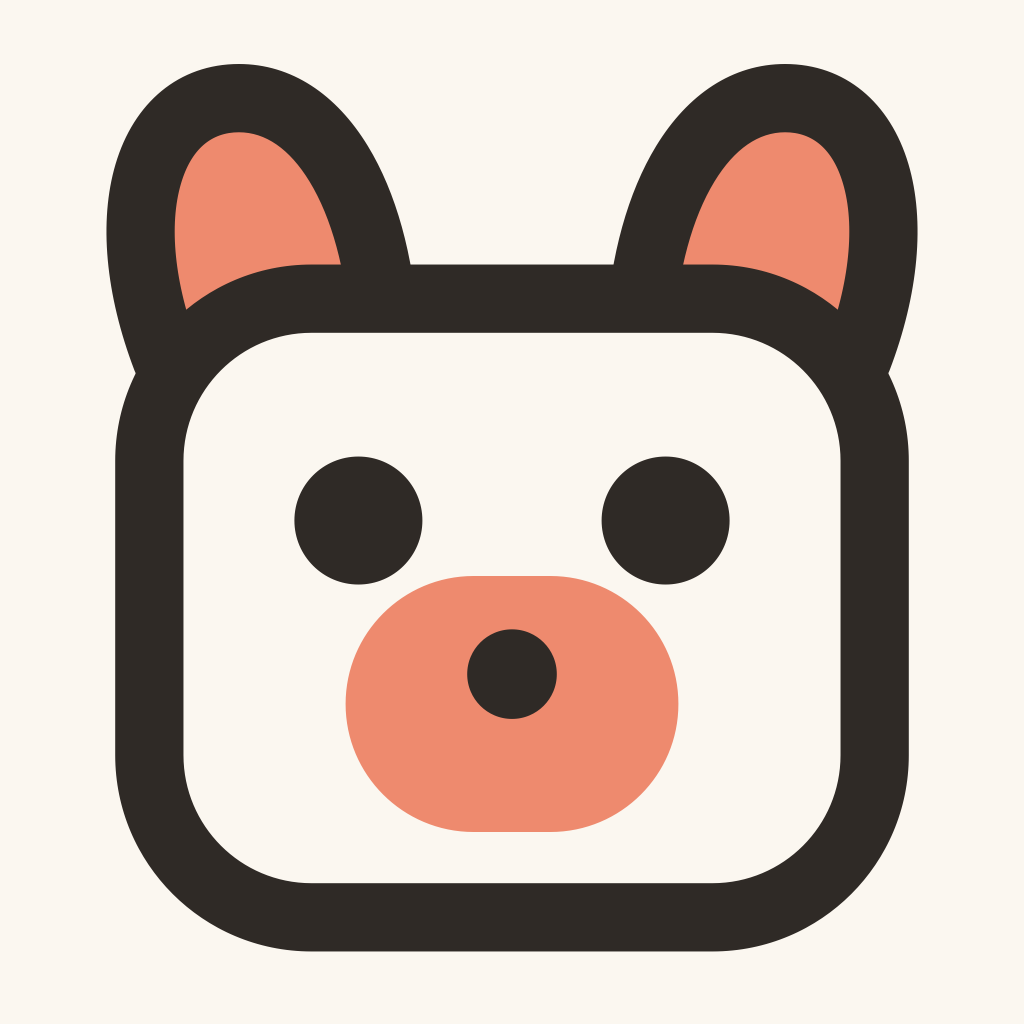
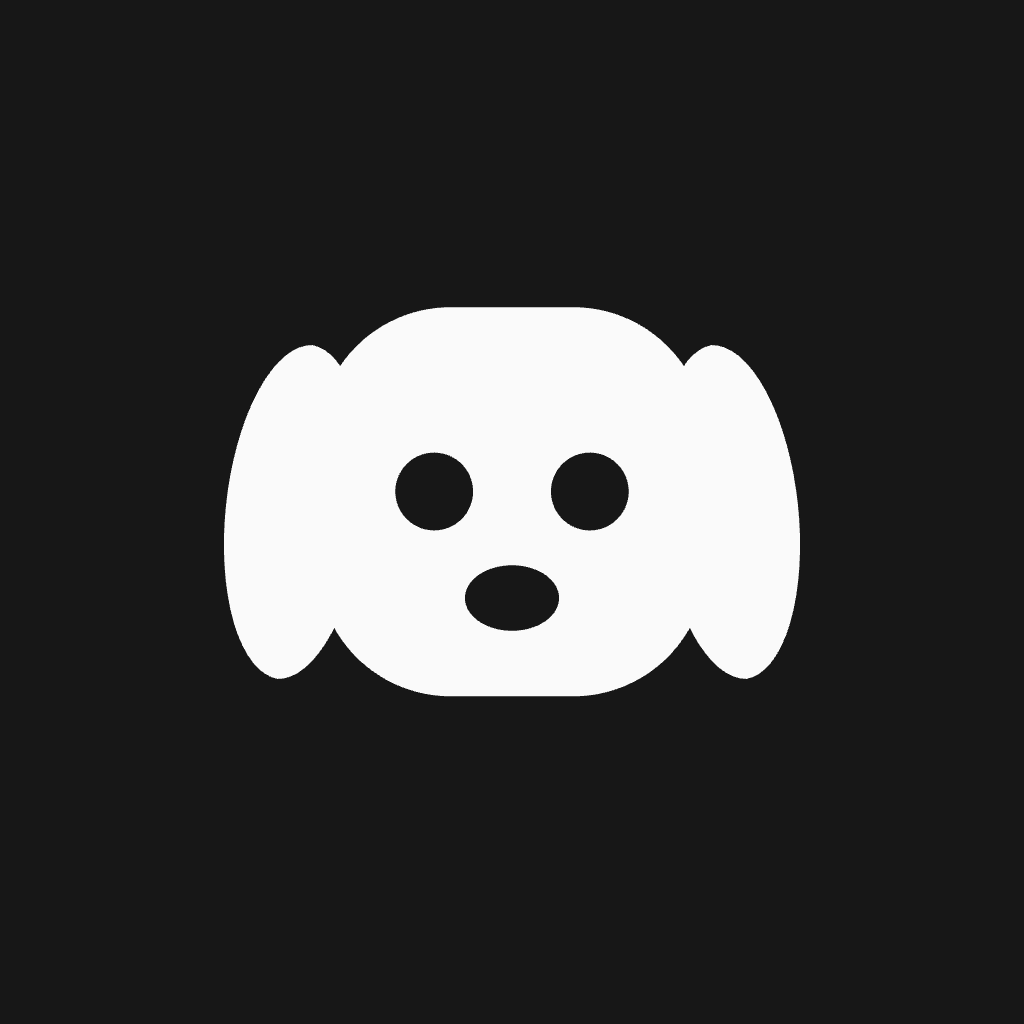
feat(brand): ブランドマークを垂れ耳の犬のシルエットに刷新(ADR-0009)
- 32 グリッド・単一パス(nonzero)・塗りのみの単色マークに作り直し、
  16px でも形が保たれるようにする(旧マークは 24 グリッドの線画で潰れていた)
- 配色は無彩色のみ。黒タイル(#171717)に白抜き(#fafafa)。旧配色(生成り・コーラル)を廃止
- assets/brand: recodock-mark.svg / recodock-favicon.svg(64) / recodock-app-icon.svg(1024)。
  色版が無くなったため recodock-mark-mono.svg を削除
- 派生: favicon.svg / favicon-32.png / apple-touch-icon.png(180) / apps/mobile/assets/icon.png(1024)
- BrandMark にパスを内包し、Icon name="logo" を削除。サイドバー 32px・認証画面 40px

diff --git a/apps/web/src/components/icons/BrandMark.tsx b/apps/web/src/components/icons/BrandMark.tsx
@@ -1,28 +1,30 @@
-import { Icon } from './Icon';
-
 import { cn } from '@/lib/utils';
 
 interface BrandMarkProps {
-  /** 一辺の px。既定 24 */
-  size?: number;
+  /** 大きさは size-* で指定する(既定 32px)。角丸も上書きできる */
   className?: string;
 }
 
+/** assets/brand/recodock-mark.svg と同じパス(32 グリッド・単一パス・nonzero)。 */
+const MARK_PATH =
+  'M13 6H19A6.5 6.5 0 0 1 25.5 12.5V18.5A6.5 6.5 0 0 1 19 25H13A6.5 6.5 0 0 1 6.5 18.5V12.5A6.5 6.5 0 0 1 13 6ZM6.26 7.85A3.5 8.2 6 0 1 4.54 24.15A3.5 8.2 6 0 1 6.26 7.85ZM25.74 7.85A3.5 8.2 -6 0 1 27.46 24.15A3.5 8.2 -6 0 1 25.74 7.85ZM12.2 13.1A1.9 1.9 0 0 0 12.2 16.9A1.9 1.9 0 0 0 12.2 13.1ZM19.8 13.1A1.9 1.9 0 0 0 19.8 16.9A1.9 1.9 0 0 0 19.8 13.1ZM16 18.6A2.3 1.6 0 0 0 16 21.8A2.3 1.6 0 0 0 16 18.6Z';
+
 /**
- * プロダクトのブランドマーク。差し替え候補を検討中のため(07_ui-audit.md)、
- * 参照箇所をここ 1 か所に集約しておき、決定後はこのファイルだけを変える。
+ * プロダクトマーク(垂れ耳の犬。ADR-0009)。favicon / iOS アイコンと同じく黒地のタイルに白抜きで載せる。
+ * 装飾なので aria-hidden。隣に必ず「recodock」の文字を置く。
  */
-export function BrandMark({ size = 24, className }: BrandMarkProps) {
+export function BrandMark({ className }: BrandMarkProps) {
   return (
     <span
       className={cn(
-        'bg-primary text-primary-foreground inline-flex shrink-0 items-center justify-center rounded-lg',
+        'bg-primary text-primary-foreground inline-flex size-8 shrink-0 items-center justify-center rounded-md',
         className,
       )}
-      style={{ width: size * 1.6, height: size * 1.6 }}
       aria-hidden="true"
     >
-      <Icon name="logo" size={size} />
+      <svg viewBox="0 0 32 32" className="size-[68%]">
+        <path fill="currentColor" fillRule="nonzero" d={MARK_PATH} />
+      </svg>
     </span>
   );
 }

diff --git a/apps/web/src/components/icons/iconPaths.tsx b/apps/web/src/components/icons/iconPaths.tsx
@@ -22,16 +22,7 @@ const frame = (
 
 /** アイコン名 → SVG の中身。Icon.tsx からのみ参照する。 */
 export const ICON_PATHS = {
-  /* サービスマーク(器＋耳＋犬の顔)。カラー版は assets/brand/recodock-mark.svg */
-  logo: (
-    <>
-      {frame}
-      <circle cx="8.4" cy="12.2" r="1.5" fill="currentColor" />
-      <circle cx="15.6" cy="12.2" r="1.5" fill="currentColor" />
-      <rect x="8.9" y="14.3" width="6.2" height="4.4" rx="2.2" {...stroke} />
-      <circle cx="12" cy="15.8" r="1.05" fill="currentColor" />
-    </>
-  ),
+  /* サービスマークは components/icons/BrandMark.tsx に移した(ADR-0009) */
   /* モジュール(器＋耳＋中身)。中身は x 6–18 / y 9–19 に収め、要素は3つまで */
   calendar: (
     <>

diff --git a/apps/web/src/core/AuthLayout.tsx b/apps/web/src/core/AuthLayout.tsx
@@ -18,7 +18,7 @@ export function AuthLayout({ title, description, children, footer }: AuthLayoutP
     <div className="bg-muted/40 flex min-h-svh flex-col items-center justify-center p-6">
       <Card className="w-full max-w-sm">
         <CardHeader className="text-center">
-          <BrandMark size={24} className="mx-auto mb-3 rounded-xl" />
+          <BrandMark className="mx-auto mb-3 size-10 rounded-xl" />
           <h1 className="font-heading text-xl leading-snug font-medium">{title}</h1>
           <CardDescription>{description}</CardDescription>
         </CardHeader>

diff --git a/apps/web/src/core/AppShell.tsx b/apps/web/src/core/AppShell.tsx
@@ -133,7 +133,7 @@ function AppSidebar({ modules, activeKey, onOpenLauncher }: AppSidebarProps) {
           <SidebarMenuItem>
             <SidebarMenuButton size="lg" asChild tooltip="recodock">
               <Link to="/" onClick={closeOnNavigate}>
-                <BrandMark size={16} className="size-8 rounded-md" />
+                <BrandMark />
                 <span className="font-heading text-base font-semibold">recodock</span>
               </Link>
             </SidebarMenuButton>
